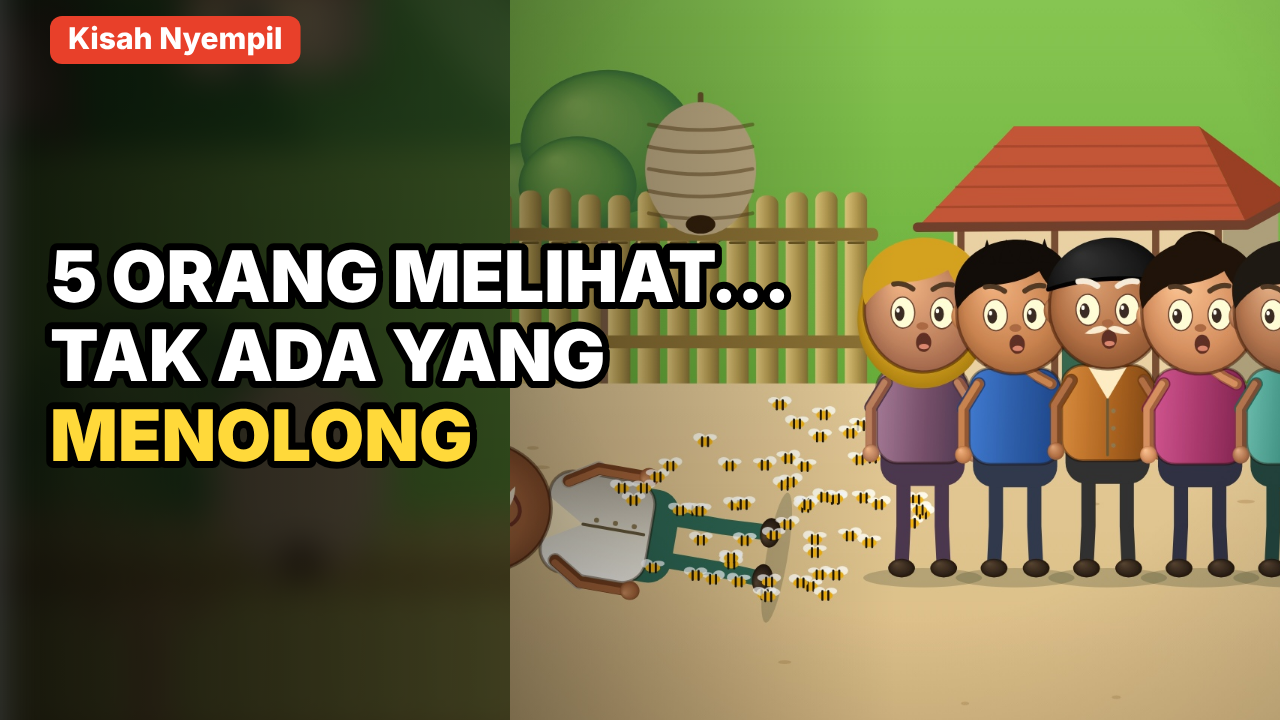
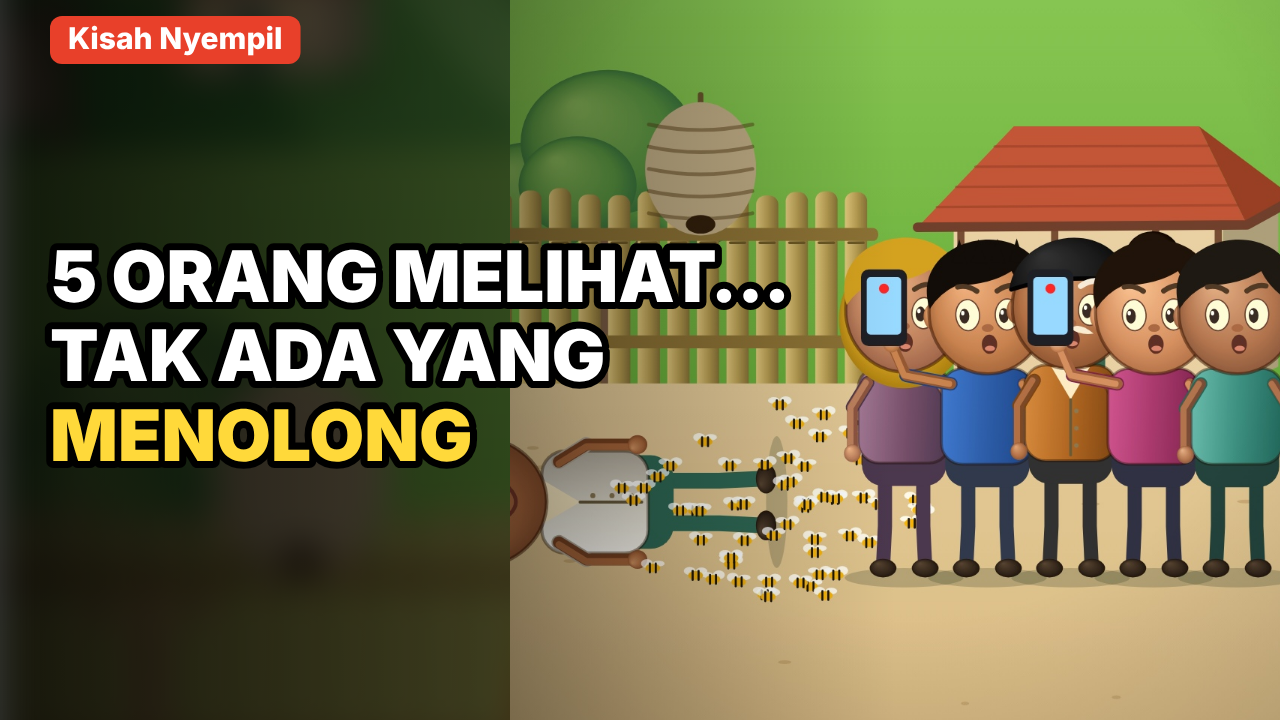
Tawon: tokoh duduk/berbaring menempel, HP warga terlihat; aturan di panduan
Claude-Session: https://claude.ai/code/session_01Godms2QmoQZrHkybEKC2ML

Changed region(s): [[0.6562, 0.3056, 1.0, 0.825], [0.375, 0.5806, 0.625, 0.8556]]

diff --git a/animasi/tawon/saat-tawon-menyerang.html b/animasi/tawon/saat-tawon-menyerang.html
@@ -632,7 +632,7 @@ const SCRIPT=[
   ['Kompres dingin bagian yang bengkak.','kompres',1.0,1.02,225,420],
   ['Lalu segera bawa ke IGD atau puskesmas. Disengat banyak tawon sekaligus itu darurat, walaupun korban terlihat baik-baik saja.','bawa',1.0,1.05,225,520],
   ['Waspadai tanda bahaya. Sesak napas, wajah atau tenggorokan bengkak, pusing, muntah, atau pingsan.','bahaya',1.0,1.0,225,420],
-  ['Mbah Wardi dibawa ke puskesmas. Tiga hari dirawat… dan dia pulang dengan selamat.','puskesmas',1.3,1.4,200,500],
+  ['Mbah Wardi dibawa ke puskesmas. Tiga hari dirawat… dan dia pulang dengan selamat.','puskesmas',1.1,1.2,230,470],
   ['Sore itu, petugas Damkar datang dan memindahkan sarangnya dengan aman.','damkar',1.2,1.3,160,480],
   ['Satu hal lagi. Kalau kamu melihat sarang tawon di dekat rumah, jangan dibongkar sendiri. Laporkan ke Damkar.','lapor',1.0,1.02,225,420],
   ['Hari itu, lima orang melihat. Tapi cukup satu orang yang tahu harus berbuat apa.','satu',1.2,1.3,240,520],
@@ -662,14 +662,14 @@ function paintScene(key,t,dt,len){
   const p=clamp(dt/Math.max(len,.01)),row=SCRIPT[KI(key)],spk=row[6];
   const P=(id,x,y,s,o={})=>person(id,x,y,s,t,Object.assign({talk:spk===id},o));
   const NX=110,NY=440;
-  const crowd=(o={})=>{for(const [id,x,hp] of [['ibu1',250,0],['wargaA',300,1],['ranto',350,0],['wargaB',400,1],['warga1',450,0]])P(id,x+(o.dx||0),Y+10,A*.9,{mood:o.mood||'wow',look:-1,handPos:hp?{1:[-10,-120]}:{},tools:hp?[['hp',1]]:[],lean:o.back?.1:0})};
+  const crowd=(o={})=>{for(const [id,x,hp] of [['ibu1',240,0],['wargaA',285,1],['ranto',330,0],['wargaB',375,1],['warga1',420,0]]){const X=x+(o.dx||0);P(id,X,Y+10,A*.9,{mood:o.mood||'wow',look:-1,handPos:hp?{'-1':[-50,-122]}:{},lean:o.back?.1:0});if(hp)at(X,Y+10,A*.9,()=>{box(-66,-160,24,40,4,'#2a2a30');box(-63,-156,18,30,2,'#9ad0f0');ellipse(-54,-150,2.6,2.6,(t*2%1<.5)?'#e33':'#922')})}};
   switch(key){
     case 'sapu':desa(t);sarang(NX,NY,1);P('wardi',220,Y,A,{mood:'calm',look:-1,handPos:{1:[-30,-60]},tools:[['sapu',1]],toolAngle:-.4+Math.sin(t*4)*.3});break;
     case 'senggol':desa(t);sarang(NX,NY,1+Math.sin(t*30)*.03);P('wardi',190,Y,A,{mood:'wow',look:-1,handPos:{1:[-40,-80]},tools:[['sapu',1]],toolAngle:-1});swarm(NX,NY+20,20,p*12,t,.8);break;
     case 'keluar':desa(t);sarang(NX,NY,1);P('wardi',190,Y,A,{mood:'scared',look:-1});swarm(mix(NX,170,p),mix(NY,500,p),mix(30,90,p),60,t,.9);break;
     case 'panik':{desa(t);sarang(NX,NY,1);const k=clamp((p-.5)*2.5);if(k<=0)P('wardi',210,Y,A,{mood:'scared',both:true,gesture:1,wiggle:1,shake:.5});
-      else at(210,Y,1,()=>{g.rotate(-1.4*ease(k));person('wardi',0,0,A,t,{mood:'scared'})});swarm(210,Y-90,90,70,t,.9);break}
-    case 'lihat':case 'takut':desa(t);sarang(NX,NY,1);at(150,Y,1,()=>{g.rotate(-1.4);person('wardi',0,0,A,t,{mood:'scared'})});swarm(150,Y-30,80,60,t,.8);crowd({back:key==='takut',dx:-20});break;
+      else lie('wardi',210,Y,A,t,{mood:'scared'},ease(k));swarm(210,Y-90,90,70,t,.9);break}
+    case 'lihat':case 'takut':desa(t);sarang(NX,NY,1);lie('wardi',150,Y,A,t,{mood:'scared'});swarm(150,Y-30,80,60,t,.8);crowd({back:key==='takut',dx:-20});break;
     case 'tanya':g.fillStyle='#14141c';g.fillRect(-300,-300,1100,1400);capText('KALAU KAMU',225,360,40,'#fff');capText('ADA DI SANA…',225,410,40,'#fff');capText('KAMU AKAN APA?',225,480,40,'#ffd93a');break;
     case 'kartu1':card(t,'1','KALAU KAMU DISERANG','#c0392b');break;
     case 'kartu2':card(t,'2','KALAU KAMU MELIHAT','#2a6ab0');break;
@@ -677,10 +677,10 @@ function paintScene(key,t,dt,len){
     case 'x_kibas':iconPanel(t,()=>{P('wardi',225,560,A*1.3,{mood:'scared',both:true,gesture:1,wiggle:1});swarm(225,350,70,30,t,1.1)},p>.35?false:undefined);break;
     case 'tutup':desa(t);P('wargaA',225,Y,A,{mood:'closed',handPos:{1:[8,-128],'-1':[-8,-128]}});box(225-24*A,Y-150*A,48*A,26*A,8,'#4a7ac0');swarm(225,Y-200,90,25,t,.8);break;
     case 'lari':{desa(t);const k=ease(p);P('wargaA',mix(60,330,k),Y,A,{walk:1,pace:1.6,dir:.8,mood:'scared',handPos:{1:[8,-128],'-1':[-8,-128]}});swarm(mix(20,260,k),Y-150,70,30,t,.8);if(p>.5)iconCheck(330,300,t)}break;
-    case 'x_tiarap':iconPanel(t,()=>{at(225,560,1,()=>{g.rotate(-1.4);person('wardi',0,0,A*1.3,t,{mood:'scared'})})},p>.3?false:undefined);break;
+    case 'x_tiarap':iconPanel(t,()=>{lie('wardi',310,560,A*1.3,t,{mood:'scared'})},p>.3?false:undefined);break;
     case 'x_air':iconPanel(t,()=>{ellipse(225,520,170,50,'#7ac0e8');ellipse(225,520,140,36,'#9ad0f0');at(225,520,1,()=>{orb(0,-10,20,22,'#e3ae84','#bd8459','#8f5e3e')});swarm(225,440,90,30,t,1)},p>.35?false:undefined);break;
     case 'x_masuk':iconPanel(t,()=>{P('wardi',190,560,A*1.1,{mood:'scared'});P('wargaA',270,560,A*1.1,{mood:'scared'});swarm(230,400,110,50,t,1)},p>.35?false:undefined);break;
-    case 'teriak':desa(t);box(300,460,50,100,3,'#3a2a1a');P('wargaB',260,Y,A,{mood:'wow',talk:true,hand:-1,gesture:1,look:-1});at(80,Y,1,()=>{g.rotate(-1.4);person('wardi',0,0,A,t,{mood:'scared'})});swarm(80,Y-30,60,30,t,.8);break;
+    case 'teriak':desa(t);box(300,460,50,100,3,'#3a2a1a');P('wargaB',260,Y,A,{mood:'wow',talk:true,hand:-1,gesture:1,look:-1});lie('wardi',80,Y,A,t,{mood:'scared'});swarm(80,Y-30,60,30,t,.8);break;
     case 'nomor':phoneNums(t,p);break;
     case 'hp':iconPanel(t,()=>{box(110,280,100,180,14,'#222');box(118,292,84,140,4,'#c0392b');ellipse(160,360,18,18,'#fff');box(250,280,100,180,14,'#222');box(258,292,84,140,4,'#2a8a4a');label('📞',300,362,40,'#fff','center',900);
       g.save();line([[100,280],[220,460]],'#e0302a',10);line([[220,280],[100,460]],'#e0302a',10);line([[260,380],[290,420],[345,330]],'#2aa04a',12);g.restore()});break;
@@ -688,18 +688,19 @@ function paintScene(key,t,dt,len){
     case 'buka':warungS(t);P('sinta',300,Y,A,{mood:'scared',look:-1,hand:-1,gesture:1});swarm(40,Y-80,60,30,t,.8);break;
     case 'sinta_teriak':warungS(t);P('sinta',300,Y,A,{mood:'wow',talk:true,both:true,gesture:1,look:-1});break;
     case 'masuk':{warungS(t);const k=ease(p);P('wardi',mix(-40,300,k),Y,A,{walk:1,pace:1.6,dir:.8,mood:'scared',handPos:{1:[8,-128],'-1':[-8,-128]}});swarm(mix(-80,180,k),Y-120,60,25,t,.8);if(p>.85)box(260,330,90,226,3,'#5a3818');break}
-    case 'telepon':warungS(t);box(260,330,90,226,3,'#5a3818');P('sinta',150,Y,A,{mood:'calm',handPos:{1:[18,-130]},tools:[['hp',1]]});P('wargaA',60,Y+10,A,{walk:1,dir:.6,handPos:{1:[30,-80]}});P('wargaB',400,Y+10,A,{walk:1,dir:-.6});break;
+    case 'telepon':warungS(t);box(260,330,90,226,3,'#5a3818');P('sinta',150,Y,A,{mood:'calm',talk:true,handPos:{1:[30,-128]},front:[['hp',1]]});P('wargaA',60,Y+10,A,{walk:1,dir:.6,handPos:{1:[30,-80]}});P('wargaB',400,Y+10,A,{walk:1,dir:-.6});break;
     case 'kerok':iconPanel(t,()=>{box(60,380,330,90,40,'#d9a47a');for(let k=0;k<4;k++)ellipse(140+k*50,420,6,6,'#c0605a');line([[200,415],[204,400]],'#222',2);at(mix(320,180,p),400,1,()=>{g.rotate(-.5);box(-40,-26,80,52,6,'#3a8ae6')})},true);break;
     case 'kompres':iconPanel(t,()=>{box(60,380,330,90,40,'#d9a47a');box(150,360,150,70,8,'#9ad0f0');for(let k=0;k<3;k++)label('❄',190+k*35,330,22,'#4a9ae0','center',900)},true);break;
-    case 'bawa':{road(t,'day',{houses:[[80,1.2],[380,1.1]]});const k=ease(p);motor(mix(-40,360,k),Y+30,1.2,t);P('wargaA',mix(-40,360,k)+10,Y-20,A,{sit:true,dir:.6});P('wardi',mix(-40,360,k)-40,Y-24,A,{sit:true,dir:.6,mood:'sad'});break}
+    case 'bawa':{road(t,'day',{houses:[[80,1.2],[380,1.1]]});const k=ease(p);const mx=mix(-60,340,k);P('wardi',mx-30,Y-36,A,{sit:true,dir:.6,mood:'sad'});motor(mx,Y+30,1.6,t);P('wargaA',mx+18,Y-36,A,{sit:true,dir:.6,handPos:{1:[44,-92]}});break}
     case 'bahaya':bahaya(t,p);break;
-    case 'puskesmas':hospital(t,{});P('wardi',190,Y-70,A,{sit:true,dir:.3,mood:'happy',look:1});P('sinta',330,Y,A,{mood:'happy',look:-1});break;
+    case 'puskesmas':hospital(t,{});box(80,436,80,30,12,'#f4f8fa');lie('wardi',265,470,A,t,{mood:'happy'});box(140,428,170,44,12,'#8ab4d8');box(140,428,170,9,5,'#a8c8e4');P('sinta',330,Y,A,{mood:'happy',look:-1});break;
     case 'damkar':desa(t,{mode:'dusk'});sarang(NX,NY,1);P('damkar',200,Y,A,{look:-1,handPos:{1:[-60,-120]}});box(200-26*A,Y-150*A,52*A,30*A,6,'rgba(200,220,240,.8)');swarm(NX,NY,40,10,t,.7);break;
     case 'lapor':iconPanel(t,()=>{sarang(150,400,2.2);box(250,330,120,180,14,'#222');box(258,342,104,150,4,'#e8802a');label('113',310,410,30,'#fff','center',900);label('Damkar',310,445,13,'#fff','center',800)});break;
     case 'satu':warungS(t);P('wardi',190,Y,A,{mood:'happy',look:1});P('sinta',290,Y,A,{mood:'happy',look:-1});break;
     case 'akhir':desa(t,{mode:'dusk'});P('sinta',180,Y,A,{mood:'happy'});P('wardi',270,Y,A,{mood:'happy'});break;
   }
 }
+function lie(id,x,y,s,t,o={},k=1){at(x,y-26*s*k,1,()=>{g.rotate(-Math.PI/2*k);person(id,0,0,s,t,o)})}
 function iconCheck(x,y,t){g.save();g.globalAlpha=.9;line([[x-30,y],[x-8,y+24],[x+34,y-26]],'#2aa04a',10);g.restore()}
 function camOverride(key,p){return null}
 const GRADE={saturate:1.08,contrast:1.12,brightness:1.0,vignette:.45};

diff --git a/animasi/PANDUAN-GAYA.md b/animasi/PANDUAN-GAYA.md
@@ -29,6 +29,8 @@ Patokan untuk setiap cerita baru. Contoh lengkapnya: `sumur-mbah-darmi.html` + `
 - **Volume harus kencang**: target loudness ± **-14 LUFS** (standar TikTok/IG/YouTube). Di `build.js`, rantai audio setelah `amix`: `volume=2.4,acompressor=threshold=-20dB:ratio=3:attack=5:release=150,loudnorm=I=-14:TP=-1.5:LRA=9,aresample=44100,alimiter=limit=0.9`. Cek dengan `ffmpeg -i <audio.wav> -af ebur128=peak=true -f null -` (I ≈ -13 s/d -14 LUFS, puncak ≤ -0,5 dBFS).
 - **Cerita bersambung**: bagian pertama **tidak** diberi tulisan "Bagian 1" di judul — biar mengalir. Bagian berikutnya boleh "Bagian 2", dst.
 - **Dekorasi dalam ruangan harus ramai** dan terlihat di dalam bingkai kamera (bukan di luar zoom): kalender, poster/foto, rak buku, lampu gantung, jemuran/tirai, karpet, galon, dsb. Rumah sakit: tirai, monitor, meja kecil, lantai keramik. Contoh: `kamar()`/`hospital()`/`corridor()` di `animasi/transfer/transfer-1.html`.
+- **Tokoh duduk/berbaring tidak boleh mengambang**: `sit:true` → pinggul ada ± 7·skala di atas titik `y`, kaki menjuntai sampai +23·skala; taruh `y` tepat di atas dudukan (jok, bangku, tepi ranjang). Tiarap/berbaring pakai `lie(id,x,y,s,t,o)` (putar tepat 90°, diangkat setebal badan) — jangan `rotate(-1.4)` yang membuat kepala terangkat. Orang sakit di ranjang: berbaring + bantal + selimut menutupi badan.
+- **Benda yang disebut narasi harus kelihatan** (mis. "mengeluarkan HP"): `tools` digambar di belakang kepala, jadi benda setinggi wajah bisa tertutup. Pakai `front`, atau gambar manual setelah `person()` di samping kepala, cukup besar.
 - **Sebelum membuat cerita baru, riset dulu** apakah cerita serupa sudah ada (berita, YouTube, TikTok, fiksi online), lalu buat premis yang berbeda.
 
 ## 1c. Thumbnail & hook (wajib mulai 25 November 2026 — target monetisasi YouTube)
